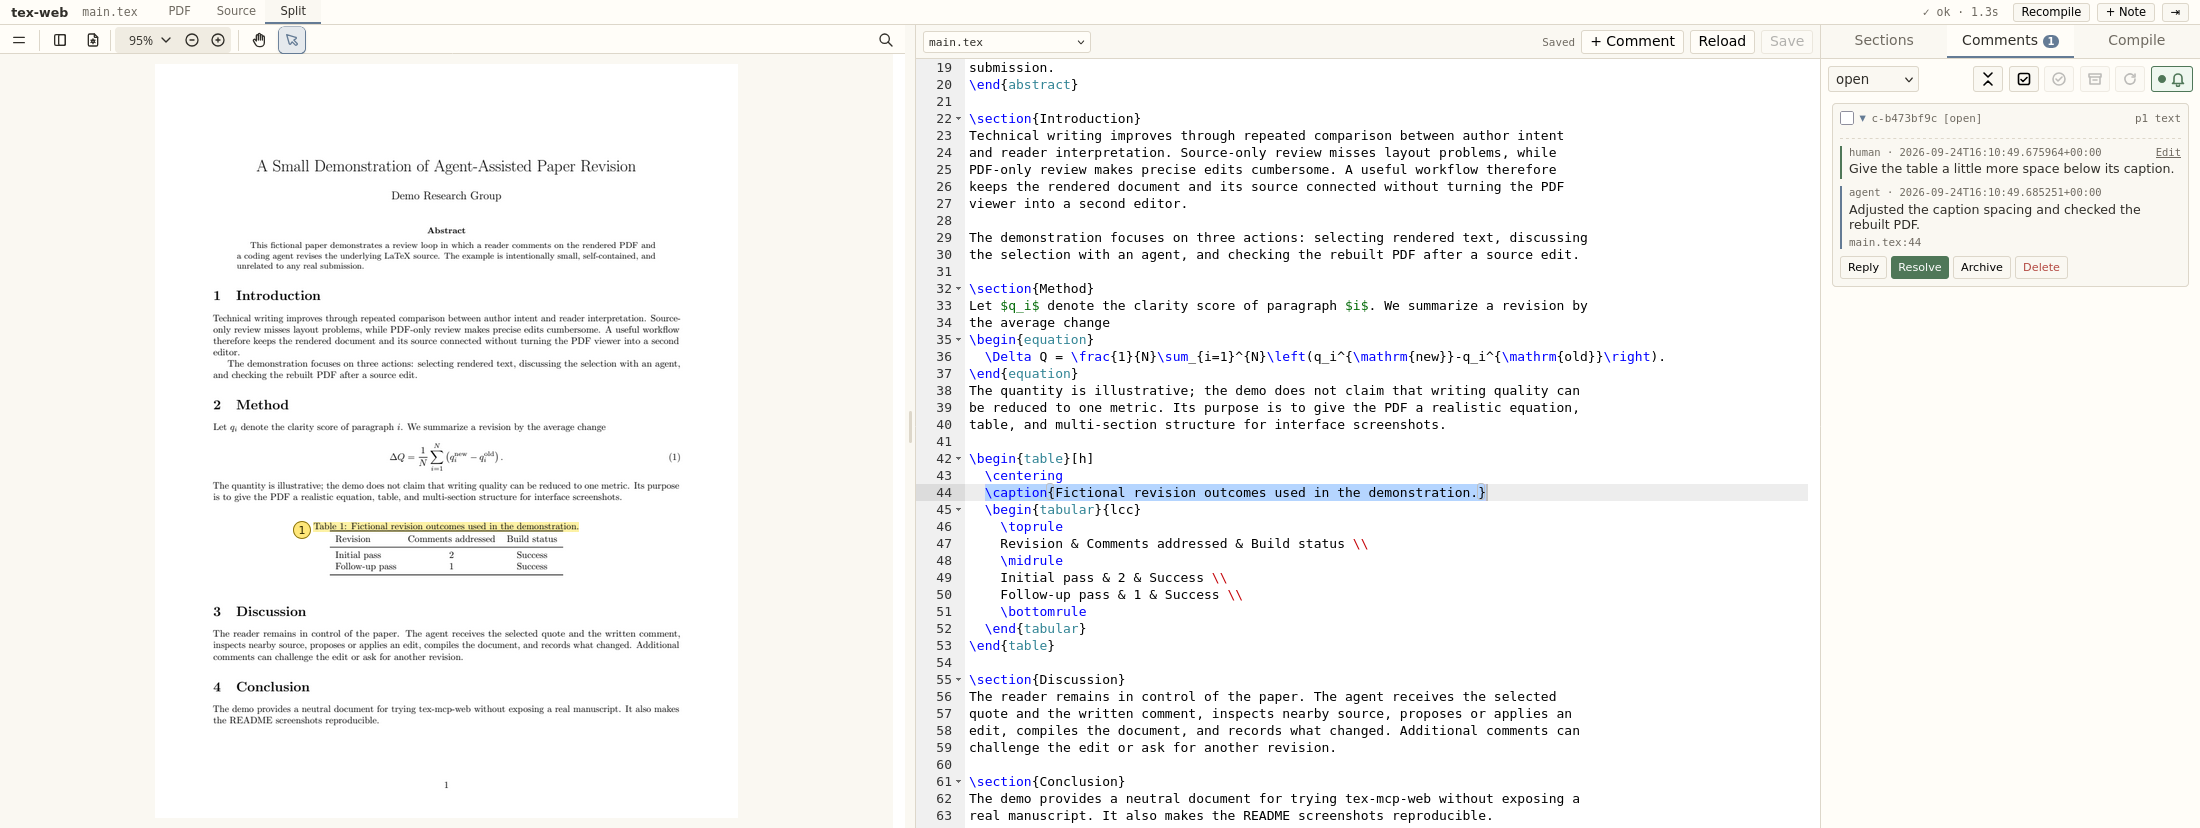
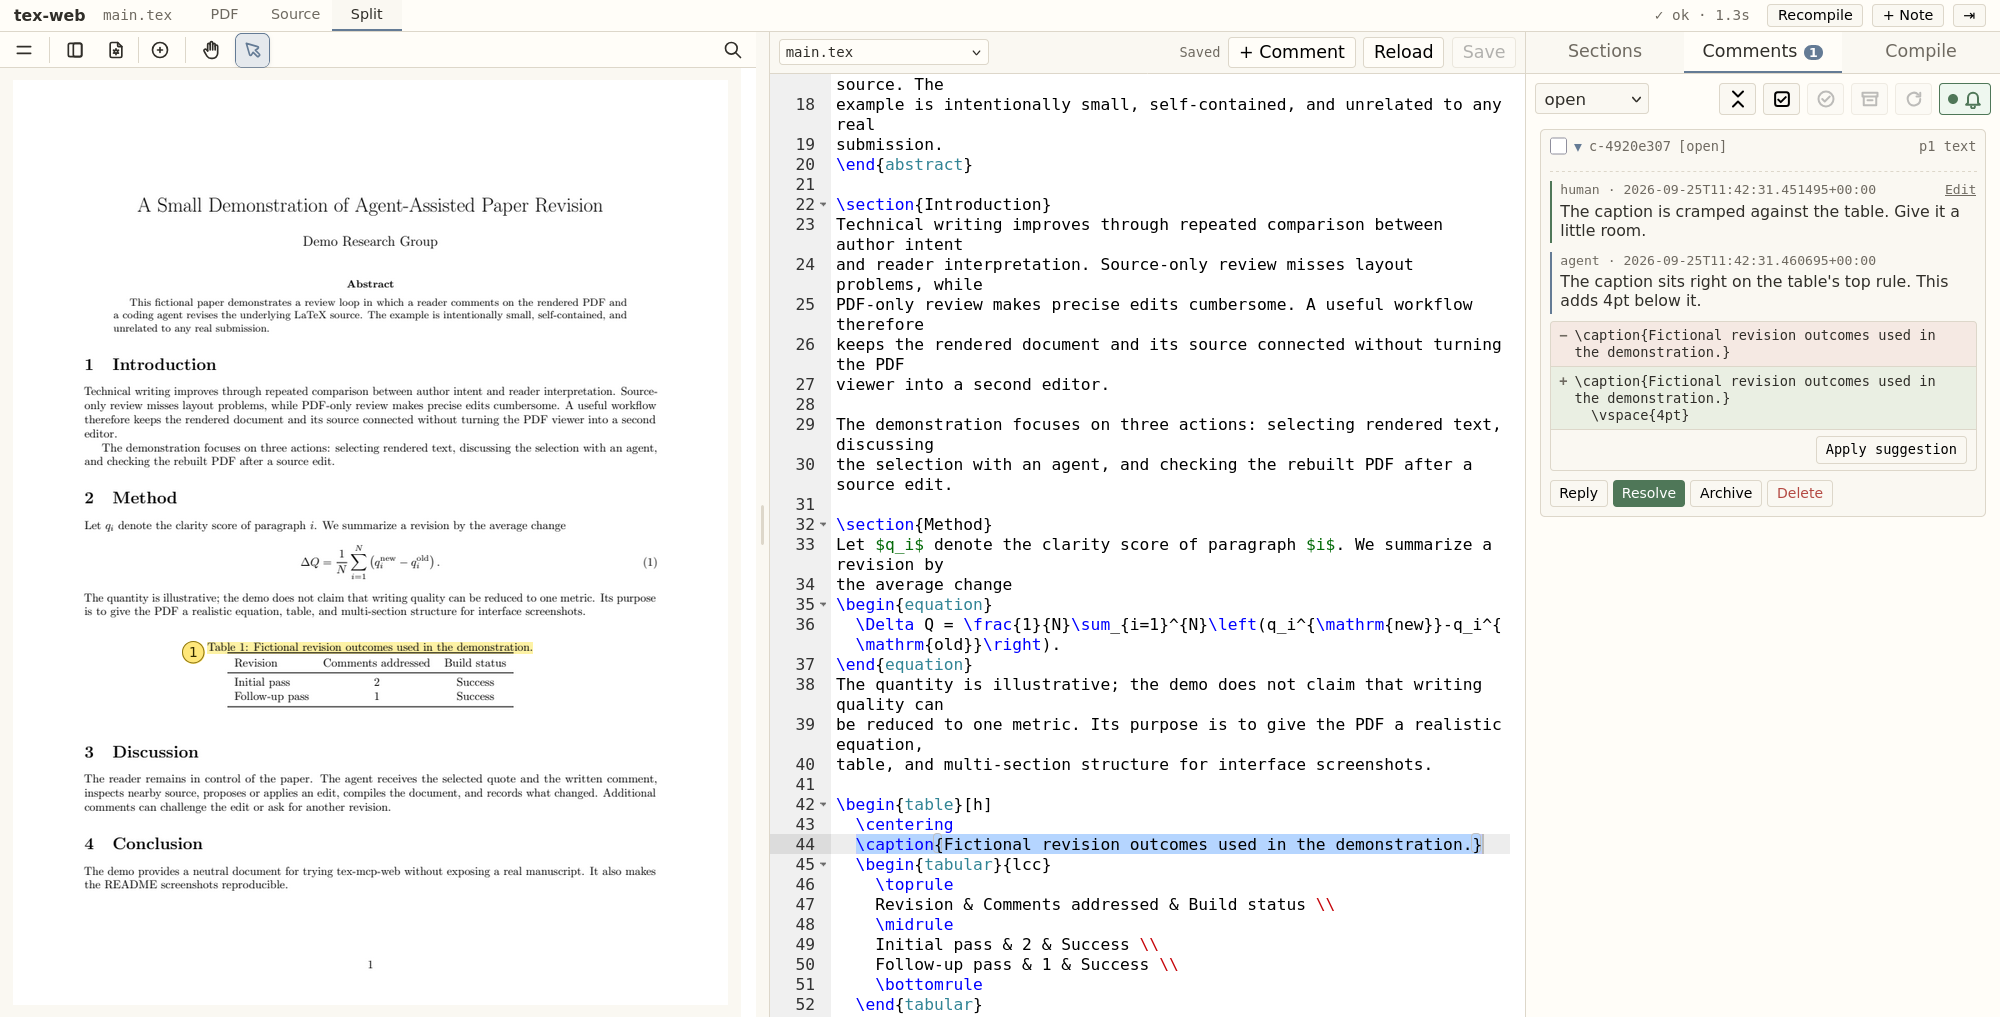
Let a comment on the PDF carry a suggested edit
A proposal is quoted from the file its comment points into, not from the range it
underlines, yet only a comment made on source lines could carry one. The agent's
suggest and the reviewer's replacement box both refused a comment on PDF text or
a section, the way most comments are made, and the page hid Apply suggestion on
them. The file now comes from the source such a comment resolves to, a reviewer's
replacement has to be found there as written, and a whole-paper note, which names
no file, is still refused.

The README leads with suggested edits, and its images show a caption flagged in
the PDF answered with a proposed \vspace and Apply suggestion.

Claude-Session: https://claude.ai/code/session_019YERaDsaFj3FPn9WvyCuNy

diff --git a/tex_mcp_web/static/viewer.js b/tex_mcp_web/static/viewer.js
@@ -1021,9 +1021,10 @@ function renderCommentItem(comment) {
 
 function renderSuggestion(comment) {
   const changes = comment.suggestion?.changes ?? [];
-  const completeSourceSuggestion = comment.anchor.kind === "source_range" && changes.length > 0;
+  // The proposal names its own file, so it applies whatever the comment points at: a
+  // source range, PDF text, or a section.
   let applyButton = null;
-  if (completeSourceSuggestion && comment.status === "open") {
+  if (changes.length > 0 && comment.status === "open") {
     applyButton = actionButton("sugg-apply", "Apply suggestion", async () => {
       applyButton.disabled = true;
       applyButton.textContent = "Applying…";

diff --git a/tests/test_server.py b/tests/test_server.py
@@ -240,7 +240,7 @@ async def test_create_comment_with_suggestion(client):
 
 
 @pytest.mark.asyncio
-async def test_a_suggestion_needs_a_comment_anchored_to_source(client):
+async def test_a_suggestion_needs_a_comment_whose_place_in_the_source_is_known(client):
     """A proposal is applied to a file, so a whole-paper note cannot carry one."""
     tc, _ = client
     resp = await tc.post(
@@ -249,7 +249,31 @@ async def test_a_suggestion_needs_a_comment_anchored_to_source(client):
               "suggestion": {"old": "a", "new": "b"}},
     )
     assert resp.status == 400
-    assert "anchored to source" in (await resp.json())["error"]
+    assert "place in the source is known" in (await resp.json())["error"]
+
+
+@pytest.mark.asyncio
+async def test_a_reviewer_replacement_on_a_section_goes_to_its_source(client):
+    """A section, like PDF text, points into the source through what it resolves to, so
+    the replacement a reviewer types beside it lands in that file, once it is found there."""
+    tc, _ = client
+    resp = await tc.post(
+        "/comments",
+        json={"anchor": {"kind": "section", "title": "Methods"}, "text": "clearer",
+              "suggestion": {"old": "Some methods.", "new": "Two careful methods."}},
+    )
+    assert resp.status == 201
+    assert (await resp.json())["suggestion"] == {
+        "file": "paper.tex",
+        "changes": [{"old": "Some methods.", "new": "Two careful methods."}],
+    }
+    resp = await tc.post(
+        "/comments",
+        json={"anchor": {"kind": "section", "title": "Methods"}, "text": "clearer",
+              "suggestion": {"old": "Words the PDF shows but the source spells otherwise", "new": "x"}},
+    )
+    assert resp.status == 400
+    assert "not found in the source" in (await resp.json())["error"]
 
 
 @pytest.mark.asyncio
@@ -1201,6 +1225,48 @@ async def test_mcp_comment_discovery_reads_only_selected_history(bound_project, 
 
 
 @pytest.mark.asyncio
+async def test_a_suggestion_answers_a_comment_made_off_the_source(bound_project, project):
+    """A reviewer points at the PDF or a section, not at source lines. The proposal is
+    quoted from the file that place resolves to, so it can answer them there; only a
+    whole-paper note, which names no file, cannot carry one."""
+    pytest.importorskip("mcp")
+    import aiohttp
+
+    from tex_mcp_web.comments import CommentStore
+    from tex_mcp_web.mcp_server import create_server, revision_of
+
+    mcp = create_server(bound_project)
+    store = CommentStore(project / ".tex-mcp-web" / "comments.json")
+
+    async def opened(anchor):
+        # Placed the way the page places it, so a section resolves to its source lines.
+        added = await mcp.call_tool("write_comments", {"action": "add", "text": "Look here.", "anchor": anchor})
+        comment_id = json.loads(added[0][0].text)["id"]
+        return store.reply(comment_id, "Please fix this.", author="human")
+
+    section = await opened({"kind": "section", "title": "Methods"})
+    note = await opened({"kind": "paper"})
+
+    async def suggest(comment, old, new):
+        result = await mcp.call_tool("write_comments", {
+            "action": "suggest", "id": comment.id, "rev": revision_of(comment.updated),
+            "text": "A proposal.", "changes": [{"old": old, "new": new}]})
+        return json.loads(result[0][0].text)
+
+    assert "place in the source is known" in (await suggest(note, "Some", "Any"))["error"]
+    assert "error" not in await suggest(section, "Some methods.", "Two careful methods.")
+
+    proposed = store.get(section.id)
+    async with aiohttp.ClientSession() as session:
+        async with session.post(
+            f"{bound_project.base_url()}/comments/{section.id}/apply-suggestion",
+            json={"updated": proposed.updated},
+        ) as response:
+            assert response.status == 200
+    assert "Two careful methods." in (project / "paper.tex").read_text(encoding="utf-8")
+
+
+@pytest.mark.asyncio
 async def test_mcp_comment_and_section_runtime_contract(bound_project, project):
     pytest.importorskip("mcp")
     from tex_mcp_web.mcp_server import create_server
@@ -1222,9 +1288,9 @@ async def test_mcp_comment_and_section_runtime_contract(bound_project, project):
     assert set(comment) == {"id", "status", "rev"}
     assert stored["comments"][0]["thread"][0]["text"] == "review this"
 
-    # A rewrite is proposed inside one comment's own range. The agent quotes the text it
-    # replaces the way an editing tool takes it, so it never counts columns, and it never
-    # sends back the text it is not changing.
+    # A rewrite is proposed on one comment's thread, quoted from the file the comment sits
+    # in. The agent quotes the text it replaces the way an editing tool takes it, so it
+    # never counts columns, and it never sends back the text it is not changing.
     async def call_comment(**payload):
         return json.loads((await mcp.call_tool("write_comments", payload))[0][0].text)
 

diff --git a/tex_mcp_web/server.py b/tex_mcp_web/server.py
@@ -149,7 +149,7 @@ def _suggestion_from_dict(d: Any, file: str | None) -> SuggestedEdit | None:
         # An agent that means to remove text says so through its own call.
         raise TypeError("a replacement must not be empty")
     if file is None:
-        raise TypeError("a suggestion needs a comment anchored to source")
+        raise TypeError("a suggestion needs a comment whose place in the source is known")
     return SuggestedEdit(file=file, changes=[(d["old"], d["new"])])
 
 
@@ -162,9 +162,12 @@ def derive_suggestion(
     what the reviewer is offered is measured against the source rather than against
     what the agent remembered of it.
     """
+    # Any comment whose place in the source is known can carry one: a source range, or
+    # PDF text and sections through the source they resolve to. A whole-paper note
+    # names no file.
     source = comment.resolved_source
     if source is None:
-        raise ValueError("the comment has no resolved source range")
+        raise ValueError("a suggestion needs a comment whose place in the source is known")
     try:
         text = (watch_dir / source.file).read_text(encoding="utf-8")
     except (OSError, UnicodeError) as error:
@@ -836,10 +839,6 @@ class TexMcpWebServer:
             )
         try:
             anchor = anchor_from_dict(anchor_d)
-            suggestion = _suggestion_from_dict(
-                data["suggestion"] if "suggestion" in data else None,
-                anchor.file if isinstance(anchor, SourceRangeAnchor) else None,
-            )
         except (ValueError, KeyError, TypeError) as exc:
             return web.json_response(
                 {"error": f"invalid comment input: {exc}"}, status=400
@@ -878,6 +877,23 @@ class TexMcpWebServer:
         resolved, source_selector = self._resolve_anchor(anchor)
         if isinstance(anchor, SourceRangeAnchor) and source_selector is None:
             return web.json_response({"error": "Source selection is out of bounds"}, status=400)
+        # A replacement is written into the file the comment points at: its own for a
+        # source range, the one PDF text or a section resolves to otherwise. Text copied
+        # from the PDF has to be found in that file as written, since the rendered words
+        # can differ from their source.
+        try:
+            if isinstance(anchor, SourceRangeAnchor):
+                suggestion = _suggestion_from_dict(data.get("suggestion"), anchor.file)
+            else:
+                suggestion = _suggestion_from_dict(
+                    data.get("suggestion"), resolved.file if resolved is not None else None)
+                if suggestion is not None:
+                    source_text = self._resolve_source_path(suggestion.file).read_text(encoding="utf-8")
+                    locate_fragments(source_text, suggestion.changes)
+        except (ValueError, KeyError, TypeError, OSError, UnicodeError) as exc:
+            return web.json_response(
+                {"error": f"invalid comment input: {exc}"}, status=400
+            )
         comment = self.comments.add(
             anchor=anchor,
             text=text,

diff --git a/tex_mcp_web/comments.py b/tex_mcp_web/comments.py
@@ -1226,8 +1226,6 @@ class CommentStore:
             raise ValueError("stale thread: comment changed since it was read")
         if comment.status != "open":
             raise ValueError("a suggestion belongs to a comment that is open")
-        if not isinstance(comment.anchor, SourceRangeAnchor):
-            raise ValueError("a suggestion needs a comment anchored to source")
         if not any(entry.author == "human" for entry in comment.thread):
             raise ValueError(
                 "a suggestion belongs to a thread the reviewer has written in; "

diff --git a/README.md b/README.md
@@ -6,15 +6,16 @@ Review a LaTeX paper from its rendered PDF, on a desktop, tablet, or phone, whil
 
 If it helps your writing, a star is very welcome.
 
-![A highlighted PDF caption, its LaTeX source, and the review thread in Split view](docs/images/discussion.png)
+![A caption highlighted in the PDF, the LaTeX source beside it, and the agent's proposed \vspace with Apply suggestion.](docs/images/discussion.png)
 
-You comment on the PDF in your browser. The agent reads the comments, edits the LaTeX,
-compiles, and replies in the same thread.
+You point at the PDF in your browser, at what you see: a word, a caption that sits too
+close to its table. The agent edits the LaTeX and replies in the same thread, or proposes
+the exact source change and leaves it to you to apply with one click.
 
 ```
 you:    select text -> write a comment -> press Call agent
                   |
-agent:  read comments -> edit LaTeX -> compile -> reply
+agent:  read comments -> edit LaTeX, or propose a change -> compile -> reply
                   |
 you:    read the rebuilt PDF -> comment again
 ```
@@ -52,6 +53,14 @@ do tex listen
 Open `http://localhost:<port>` with the port you chose at init. Say it again after the
 agent restarts. Presses of **Call agent** made meanwhile wait for it.
 
+## Suggested edits
+
+When the fix is yours to decide, the agent proposes it instead of making it. The thread
+shows the source lines it would change as a −/+ pair, and **Apply suggestion** writes
+them into the file. Proposing again replaces the proposal, and nothing reaches the source
+until you apply it. A comment on PDF text or on a section can carry one, since the agent
+quotes the source that text comes from.
+
 ## On a tablet or phone
 
 The review page adapts to the screen: on a tablet or phone the comments dock below the PDF,
@@ -72,8 +81,6 @@ forwarded port: an SSH tunnel, VS Code port forwarding, or `tailscale serve`.
   change. Add a suggested wording in the replacement box when you have one.
 - **+ Note** comments on the whole paper, and the **Sections** tab comments on a section.
 - Press **Call agent** when your comments are ready. **Recompile** rebuilds the PDF yourself.
-- The agent may answer with a proposed rewrite. **Apply suggestion** is what writes it into
-  the source.
 - Resolving is yours: **Resolve** a thread whose edit satisfies you, or reply in it when it
   does not. **Archive** sets a thread aside, and it still takes replies.
 - Saving in the Source view is explicit and refuses to overwrite a file changed by someone
